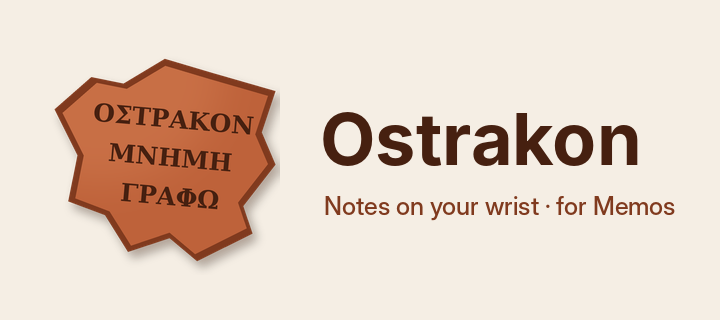
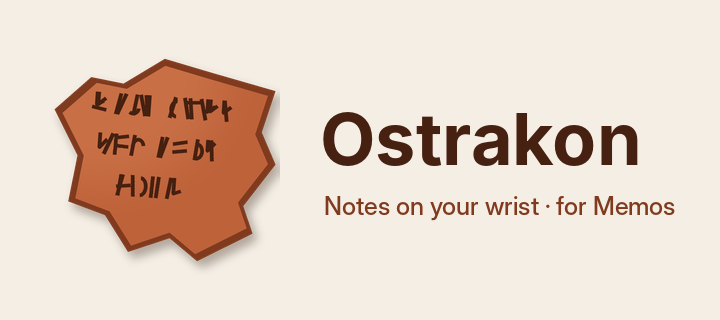
Store graphics: abstract scribbles instead of Greek writing
The writing on the shard is now made-up glyphs that belong to no real
script.

Claude-Session: https://claude.ai/code/session_012Qr2VwMfQZQcvR2fpZWXNf

Changed region(s): [[0.1222, 0.2812, 0.3667, 0.6562]]

diff --git a/store/make_art.py b/store/make_art.py
@@ -1,6 +1,6 @@
 # Draws the app store graphics: icon-144.png, icon-48.png, banner-720x320.png
 # Usage: python3 store/make_art.py store   (needs Pillow, DejaVu and Inter fonts)
-import sys
+import sys, random
 from PIL import Image, ImageDraw, ImageFilter, ImageFont
 
 OUT = sys.argv[1]
@@ -41,15 +41,42 @@ def shard_image(size):
     light = Image.new('RGBA', (big, big), CLAY_LIGHT + (0,))
     light.putalpha(Image.composite(glaze, Image.new('L', (big, big), 0), mask))
     img.alpha_composite(light)
-    # Greek capitals scratched into the clay, as on real ostraka:
-    # "ostrakon", "mneme" (memory) and "grapho" (I write), slightly tilted
+    # scratched writing: made-up glyphs of short strokes, hooks and arcs
+    # that look hand-written but belong to no real script
     text = Image.new('RGBA', (big, big), (0, 0, 0, 0))
     td = ImageDraw.Draw(text)
-    font = ImageFont.truetype('/usr/share/fonts/truetype/dejavu/DejaVuSerif-Bold.ttf', int(k * 2.7))
-    for (line, x, y) in [('ΟΣΤΡΑΚΟΝ', 4.3, 6.4), ('ΜΝΗΜΗ', 6.3, 10.6),
-                         ('ΓΡΑΦΩ', 8.0, 14.8)]:
-        td.text((x * k, y * k), line, font=font, fill=INK)
-    text = text.rotate(-5, resample=Image.BICUBIC, center=(big / 2, big / 2))
+    rnd = random.Random(11)
+    stroke = max(2, int(k * 0.42))
+    glyph_w, glyph_h = 1.55 * k, 2.3 * k
+
+    def glyph(x, y):
+        for _ in range(rnd.randint(2, 3)):
+            kind = rnd.random()
+            if kind < 0.35:    # slanted stroke
+                x0 = x + rnd.uniform(0, glyph_w * 0.6)
+                td.line([(x0, y + glyph_h), (x0 + rnd.uniform(-0.4, 0.6) * glyph_w, y)],
+                        fill=INK, width=stroke)
+            elif kind < 0.6:   # hook: down and a short tail
+                x0 = x + rnd.uniform(0, glyph_w * 0.5)
+                mid = y + rnd.uniform(0.5, 1.0) * glyph_h
+                td.line([(x0, y), (x0, mid), (x0 + glyph_w * 0.5, mid - rnd.uniform(0, 0.4) * glyph_h)],
+                        fill=INK, width=stroke, joint='curve')
+            elif kind < 0.85:  # small arc
+                box = [x, y + rnd.uniform(0, 0.4) * glyph_h, x + glyph_w, y + glyph_h]
+                start_angle = rnd.choice([0, 90, 180, 270])
+                td.arc(box, start_angle, start_angle + rnd.randint(120, 220), fill=INK, width=stroke)
+            else:              # short crossbar
+                yy = y + rnd.uniform(0.2, 0.8) * glyph_h
+                td.line([(x, yy), (x + glyph_w, yy + rnd.uniform(-0.2, 0.2) * glyph_h)],
+                        fill=INK, width=stroke)
+
+    # lines of "words", shorter where the shard narrows
+    for line_y, words in [(5.6, [(4.2, 4), (12.6, 4)]), (10.0, [(5.0, 3), (11.4, 4)]),
+                          (14.4, [(7.4, 4)])]:
+        for x, glyphs in words:
+            for i in range(glyphs):
+                glyph((x + i * 1.85) * k, line_y * k)
+    text = text.rotate(-4, resample=Image.BICUBIC, center=(big / 2, big / 2))
     # keep the writing inside the shard
     text.putalpha(Image.composite(text.getchannel('A'), Image.new('L', (big, big), 0), mask))
     img.alpha_composite(text)
